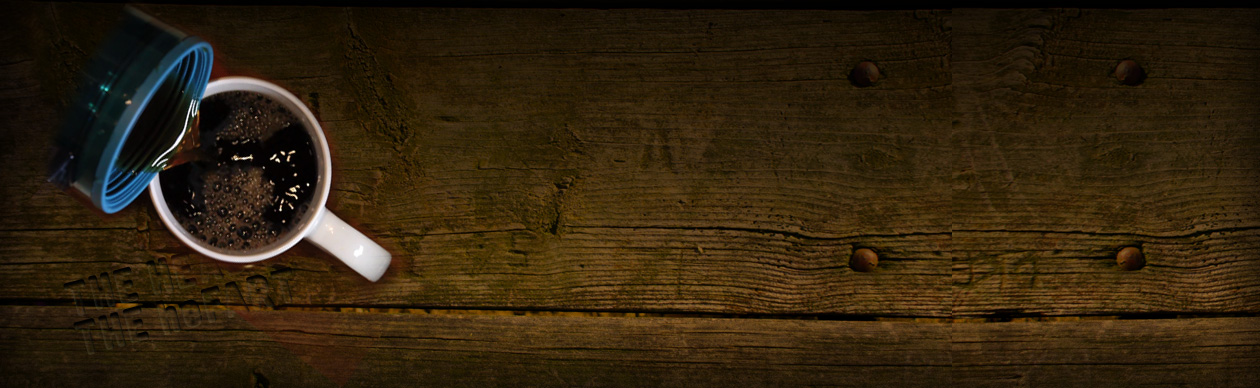
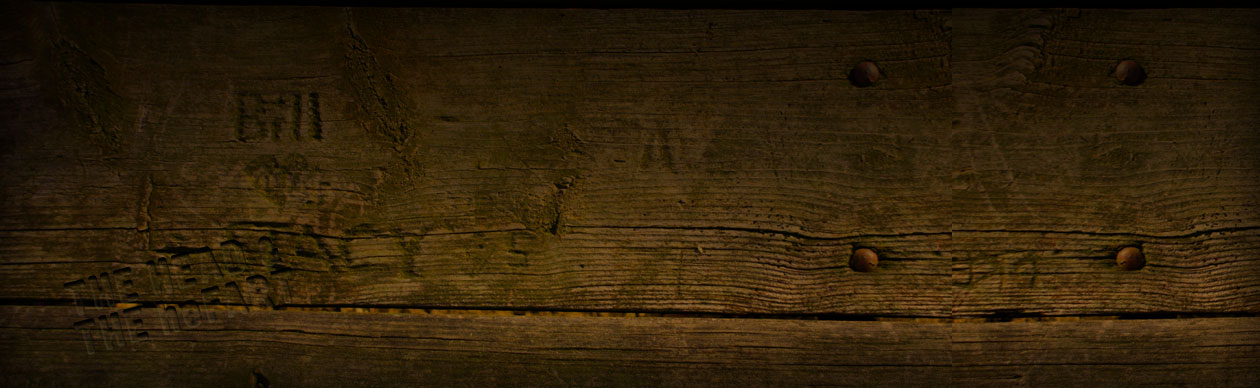
Added animation and isolated coffee cup.

Changed region(s): [[0.031, 0.0619, 0.3405, 0.7732], [0.0929, 0.0309, 0.1238, 0.0619]]

diff --git a/css/screen.css b/css/screen.css
@@ -142,6 +142,7 @@ body {
   margin: 0px auto 0px auto;
   width: 960px;
   height: 600px;
+  overflow: hidden;
   background-image: url(../images/content-main-background-index.png);
   cursor: pointer;
 }
@@ -156,7 +157,15 @@ body {
   font-weight: bold;
 }
 
-#play {
+#play-ribbon {
+  position: absolute;
+  right: 36px;
+  top: -48px;
+  width: 90px;
+  height: 136px;
+}
+
+#play-icon {
   display: none;
   position: absolute;
   left: 447px;
@@ -278,9 +287,28 @@ body {
 }
 
 #content-bottom {
+  position: relative;
   width: 100%;
   height: 388px;
   background-image: url(../images/content-bottom-background.jpg);
+}
+
+#coffee-cup {
+  position: absolute;
+  left: 0px;
+  top: 0px;
+  width: 400px;
+  height: 225px;
+  background-image: url(../images/coffee-cup.png);
+}
+
+#coffee-cinemagraph {
+  position: absolute;
+  left: 0px;
+  top: 0px;
+  width: 400px;
+  height: 225px;
+  background-image: url(../images/coffee-cinemagraph.gif);
 }
 
 #content-bottom-col-1 {

diff --git a/index.php b/index.php
@@ -5,10 +5,19 @@
                   /* Show play icon */
           	      $('#splash').hover(
           	          function() {
-          	              $('#play').css('display', 'block');
+          	              $('#play-icon').css('display', 'block');
         	            },
         	            function() {
-        	                $('#play').css('display', 'none');
+        	                $('#play-icon').css('display', 'none');
+      	              }
+        	        );
+        	        
+        	        $('#play-ribbon').hover(
+          	          function() {
+          	              $(this).animate({top: '0px'}, 200);
+        	            },
+        	            function() {
+        	                $(this).animate({top: '-48px'}, 200);
       	              }
         	        );
   	        
@@ -24,7 +33,9 @@
           Tapping everything from our people to our events, Local Brew 
           explores just how awesome this city is.</div>
           
-          <img id="play" alt="" src="images/play.png" />
+          <img id="play-ribbon" alt="" src="images/play-ribbon.png" />
+          
+          <img id="play-icon" alt="" src="images/play-icon.png" />
         </div>
         
         

diff --git a/template-bottom.php b/template-bottom.php
@@ -1,6 +1,8 @@
       </div>
       
       <div id="content-bottom">
+        <div id="coffee-cup"></div>
+        
         <div id="content-bottom-col-2">
           <div id="community">
             <h3>Our Community</h3>
